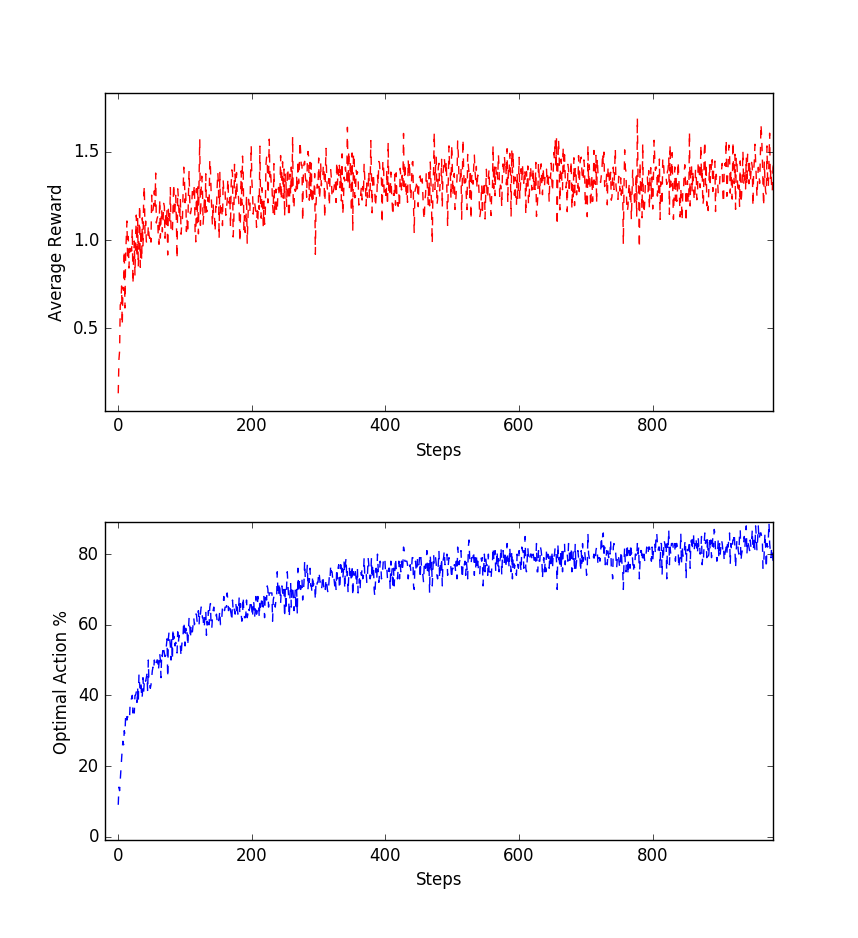
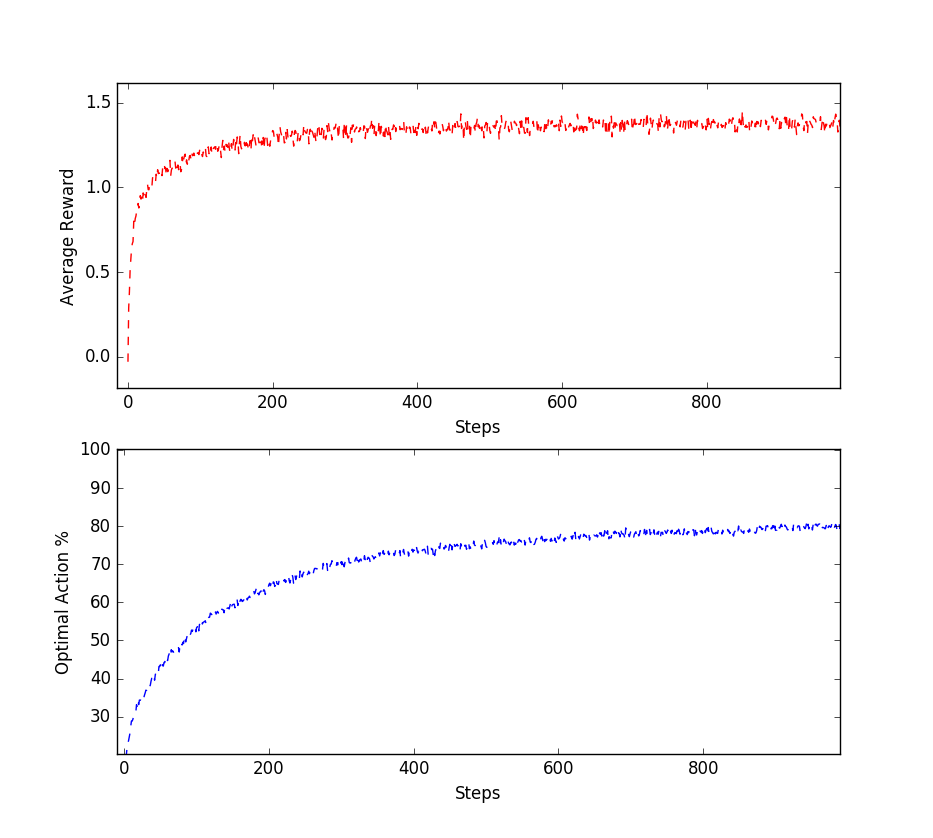
Epsilon 0.01 greedy plot matches

diff --git a/bandits.py b/bandits.py
@@ -52,36 +52,38 @@ def bandit_run():
 
     return (rewards, is_optimal)
 
-results = []
-RUNS = 100
-MAX_STEPS = 1000
+if __name__ == '__main__':
 
-rewards_in_runs = []
-optimal_in_runs = []
+    results = []
+    RUNS = 2000
+    MAX_STEPS = 1000
 
-for i in xrange(RUNS):
-    rewards, is_optimal = bandit_run()
-    rewards_in_runs.append(rewards)
-    optimal_in_runs.append(is_optimal)
+    rewards_in_runs = []
+    optimal_in_runs = []
 
-reward_matrix     = np.array(rewards_in_runs) 
-optimality_matrix = np.array(optimal_in_runs) 
+    for i in xrange(RUNS):
+        rewards, is_optimal = bandit_run()
+        rewards_in_runs.append(rewards)
+        optimal_in_runs.append(is_optimal)
 
-avg_rewards    = np.mean(reward_matrix, axis=0)
-avg_optimality = np.mean(optimality_matrix, axis=0)
-avg_optimality = avg_optimality * 100
+    reward_matrix     = np.array(rewards_in_runs) 
+    optimality_matrix = np.array(optimal_in_runs) 
 
-#np.savetxt('rewards.txt', avg_rewards, fmt='%.2f')
-#np.savetxt('optimality.txt', avg_optimality, fmt='%.2f')
+    avg_rewards    = np.mean(reward_matrix, axis=0)
+    avg_optimality = np.mean(optimality_matrix, axis=0)
+    avg_optimality = avg_optimality * 100
 
-plt.subplot(211)
-plt.plot(avg_rewards, 'r--')
-plt.ylabel('Average Reward')
-plt.xlabel('Steps')
+    #np.savetxt('rewards.txt', avg_rewards, fmt='%.2f')
+    #np.savetxt('optimality.txt', avg_optimality, fmt='%.2f')
 
-plt.subplot(212)
-plt.plot(avg_optimality, 'b--')
-plt.ylabel('Optimal Action %')
-plt.xlabel('Steps')
+    plt.subplot(211)
+    plt.plot(avg_rewards, 'r--')
+    plt.ylabel('Average Reward')
+    plt.xlabel('Steps')
 
-plt.show()
+    plt.subplot(212)
+    plt.plot(avg_optimality, 'b--')
+    plt.ylabel('Optimal Action %')
+    plt.xlabel('Steps')
+
+    plt.show()
